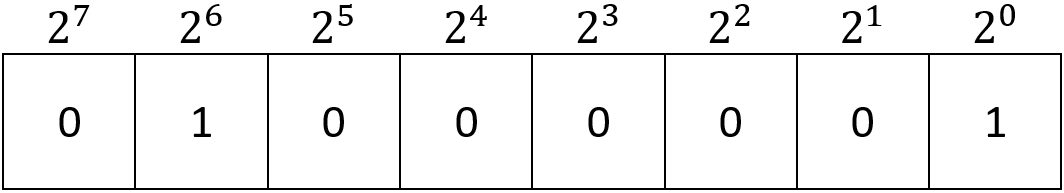
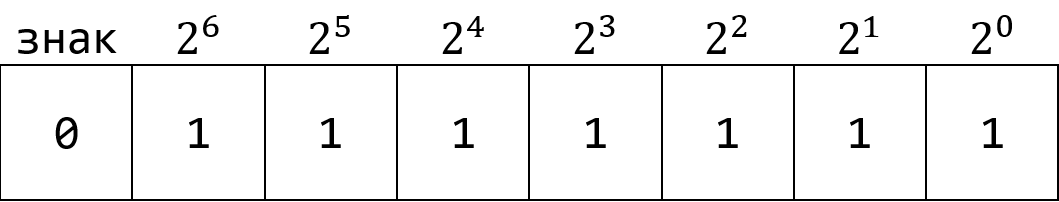
GitBook: [master] one page and 5 assets modified

diff --git a/prakticheskie-raboty/prakticheskaya-rabota-1.-rabota-s-bitami.md b/prakticheskie-raboty/prakticheskaya-rabota-1.-rabota-s-bitami.md
@@ -4,7 +4,7 @@
 
 Байт представляет собой последовательность из 8 бит, каждый из которых может принимать значение 0 или 1, независимо от других бит в последовательности.
 
-![](../.gitbook/assets/image%20%2829%29.png)
+![](../.gitbook/assets/image%20%2831%29.png)
 
 ### Перевод из двоичной в десятичный формат и обратно
 
@@ -16,7 +16,7 @@ $$
 
 Каждый бит последовательности справа налево представляет слагаемое 2 в степени от `0` до `n-1`, где `n` - количество бит в последовательности. Таким образом, 65 можно представить в двоичном формате следующим образом
 
-![](../.gitbook/assets/image%20%2828%29.png)
+![](../.gitbook/assets/image%20%2829%29.png)
 
 Те же вычисления можно провести в обратном порядке. Допустим, есть число в двоичном формате
 
@@ -28,5 +28,31 @@ $$
 2^6 +2^5 + 2^3 + 2^1 = 64 + 32 + 8 + 2 = 106
 $$
 
+### Представление отрицательных чисел. Прямой и дополнительный код
 
+Самый очевидный вариант для представления отрицательного числа - отвести один бит для обозначения - положительное ли число или отрицательное. Если бит равен `0` - число положительное, если бит равен `1` - число отрицательное.
+
+Нам удобнее отвести под бит знака крайне левый бит в последовательности, чтобы он не мешал выполнять арифметические действия с битовыми последовательностями. В таком случае, в одном байте максимально положительным числом будет 127 или `2**8 - 1`
+
+![](../.gitbook/assets/image%20%2828%29.png)
+
+Такое представление называется **прямым кодом**.
+
+Прямой код - это представление числа в двоичной системе счисления, при котором первый \(старший\) разряд отводится под знак числа. Если число положительное, то в левый разряд записывается 0, если число отрицательное, то в левый разряд записывается 1.
+
+Количество значений, которое можно поместить в 7-разрядной ячейке со знаком в дополнительном разряде равно 256. Это совпадает с количеством значений, которое можно поместить в 8-разрядную ячейку без указания знака. Однако диапазон значений уже другой, ему принадлежат значения от -128 до 127 включительно.
+
+В вычислительной технике прямой код используется почти исключительно для представления положительных чисел.
+
+Для отрицательных чисел используется так называемый **дополнительный код**. Это связано с удобством выполнения операций над числами в компьютере.
+
+В дополнительном коде, также как и в прямом, первый разряд отводится для представления знака числа. Если в первом разряде находится 1, то мы имеем дело с дополнительным кодом и отрицательным числом.
+
+Все остальные разряды числа в дополнительном коде сначала инвертируются, то есть заменяются противоположными \(0 меняется на 1, 1 меняется на 0\). Далее следует прибавить единицу к получившемуся числу. Например, число 54 выглядит следующим образом
+
+![](../.gitbook/assets/image%20%2830%29.png)
+
+Для того, чтобы получить `-54`, инвертируем биты и прибавим 1
+
+![](../.gitbook/assets/image%20%2832%29.png)
 
